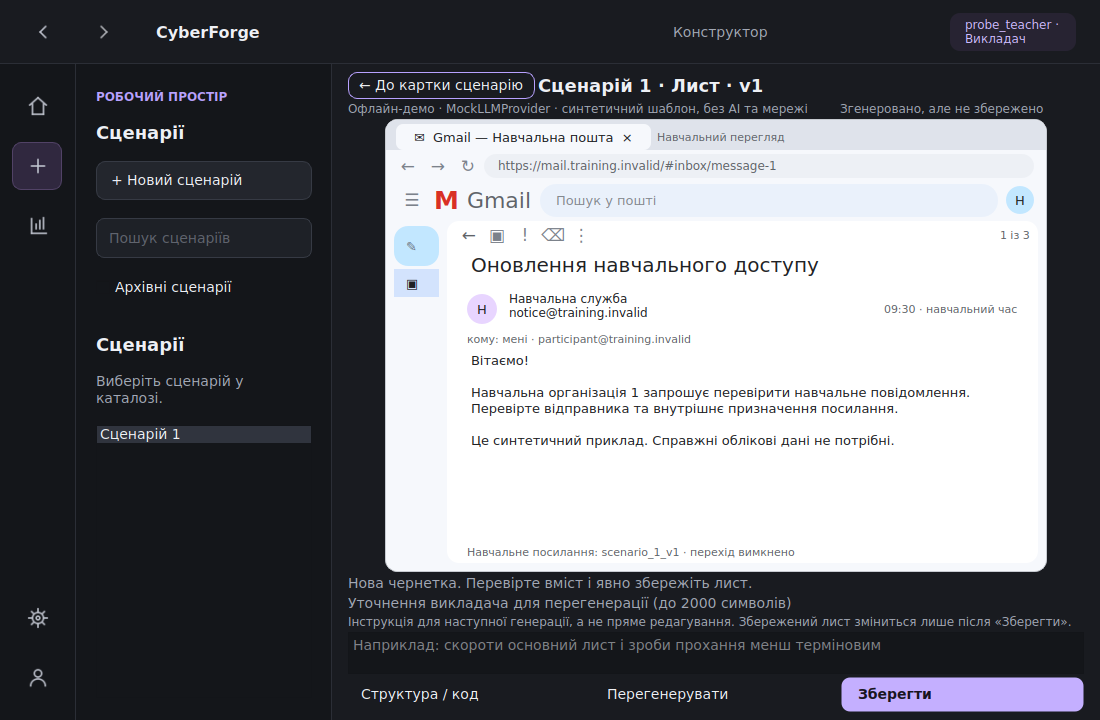
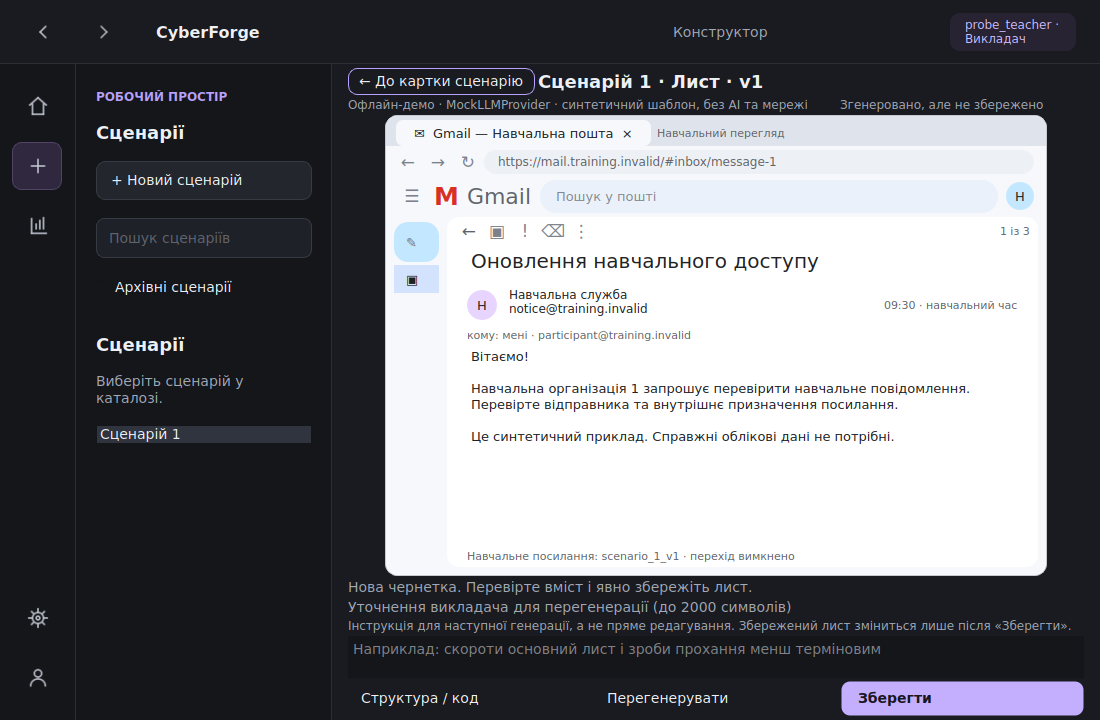
fix: fit compact email page padding on Windows

diff --git a/src/cyberforge/ui/email_page.py b/src/cyberforge/ui/email_page.py
@@ -52,7 +52,7 @@ class EmailPage(QWidget):
         self.watchdog.timeout.connect(self._timed_out)
         self._refinement_baseline = ""
         layout = QVBoxLayout(self)
-        layout.setContentsMargins(16, 8, 16, 8)
+        layout.setContentsMargins(16, 4, 16, 4)
         layout.setSpacing(3)
         top = QHBoxLayout()
         self.back_button = QPushButton("← До картки сценарію")

diff --git a/docs/DEVELOPMENT_LOG.md b/docs/DEVELOPMENT_LOG.md
@@ -2059,5 +2059,29 @@ Final full command (PTY, outside the socket-restricted sandbox):
 **698passed/323.50s**, exit0;
 `/tmp/cyberforge-phase6-ux-final-layout-pytest.log`. Ruff lint/format pass92files;
 `git diff --check` passes. This supersedes the previous local full-suite evidence.
-No further production edits follow this gate. PR7 will record the exact pushed
-HEAD and Linux/Windows CI job/log results without an extra documentation commit.
+This verifies commitf8e1417; the final padding adjustment below supersedes it.
+PR7 records exact pushed HEADs and Linux/Windows CI job/log results without an
+extra documentation-only commit.
+
+### Windows CI outer-padding correction
+
+Run43520321517 atf8e1417 passed Linux (698passed/324.42s). Windows passed every
+critical-control visibility assertion but found **2pixels** of outer vertical
+scrolling under the newly added stricter assertion (1failed,695passed,
+2POSIX-only skips/479.10s). Kept that assertion and reduced EmailPage's vertical
+padding from8px to4px; no controls/text/font sizes or workflow behavior changed.
+This adds8px of layout headroom at the minimum size. The focused compact and
+Save/reopen check passes **3cases/5.05s** offscreen and **3cases/7.79s** WSLg.
+An isolated Segoe UI WSLg probe with a650px viewport (matching Windows CI) passes
+all control visibility/zero-outer-scroll assertions. Only the temporary probe's
+window minimum was reduced; the application's1100×720 minimum is unchanged.
+The three review screenshots were refreshed; the compact image was inspected.
+Final full/CI evidence follows. The additional commit is a verified correction in
+PR7, not a separate phase or documentation-only change.
+
+Final full command (PTY, local-socket access):
+`GOOGLE_API_KEY= GROQ_API_KEY= LANGSMITH_TRACING=false UV_CACHE_DIR=/tmp/cyberforge-phase6-ux-uv-cache uv run --offline --locked pytest -vv --tb=short --durations=10`:
+**698passed/327.86s**, exit0; `/tmp/cyberforge-phase6-ux-padding-pytest.log`.
+This is final local evidence after both Windows CI findings. Ruff lint/format
+pass92Python files and `git diff --check` passes. No further production edits
+follow this gate; exact final HEAD/CI evidence is recorded in PR7/final report.
